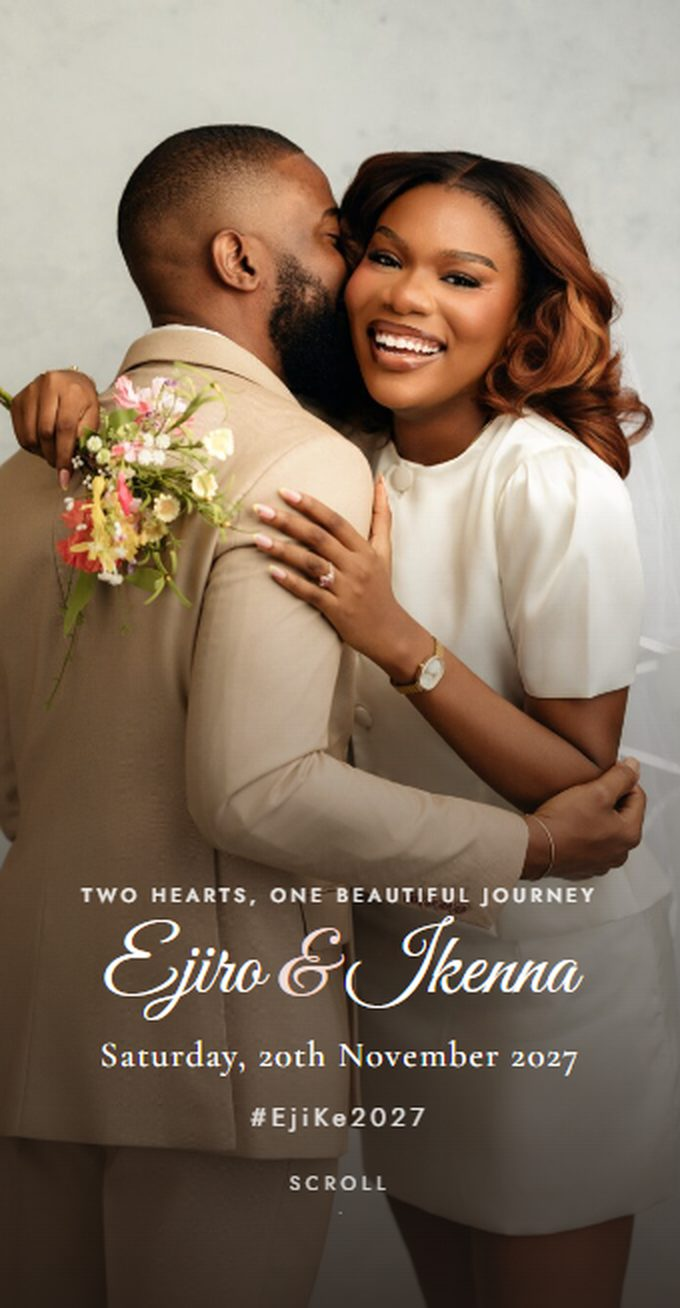
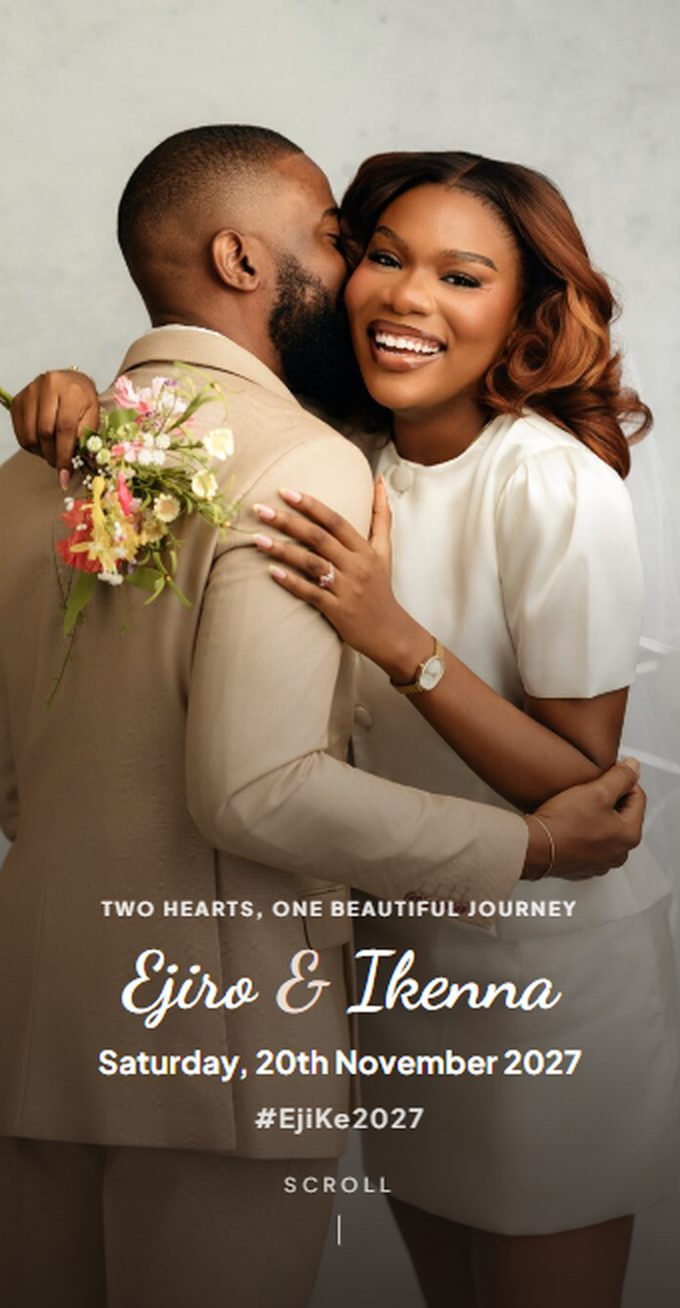
Stone & Blush: homepage fonts (Plus Jakarta Sans + Dancing Script), deeper oxblood palette

Changed region(s): [[0.1235, 0.6728, 0.8647, 0.948]]

diff --git a/samples/stone-blush/index.html b/samples/stone-blush/index.html
@@ -12,22 +12,22 @@
 <link rel="icon" type="image/png" href="assets/deeday-crest.png" />
 <link rel="preconnect" href="https://fonts.googleapis.com">
 <link rel="preconnect" href="https://fonts.gstatic.com" crossorigin>
-<link href="https://fonts.googleapis.com/css2?family=Great+Vibes&family=Jost:wght@300;400;500;600&family=Cormorant+Garamond:ital,wght@0,500;1,500&display=swap" rel="stylesheet">
+<link href="https://fonts.googleapis.com/css2?family=Dancing+Script:wght@600;700&family=Plus+Jakarta+Sans:wght@400;500;600;700;800&display=swap" rel="stylesheet">
 <style>
 :root{
-  --bg:#FFFFFF; --stone:#F3F0EB; --stone-2:#E7E2DA; --ink:#2A2421; --muted:#7A706A; --line:#E6DFD6;
-  --camel:#B8987A; --camel-2:#9E7F62; --blush:#F2DCD5; --rose:#A9564A; --rose-2:#8E4339;
+  --bg:#FFFFFF; --stone:#F3F0EB; --stone-2:#E7E2DA; --ink:#1F1A17; --muted:#6E655F; --line:#E6DFD6;
+  --camel:#B8987A; --camel-2:#8C6E54; --blush:#EBDCD2; --rose:#5E1A1F; --rose-2:#451216;
 }
 *{box-sizing:border-box;margin:0;padding:0}
 html{scroll-behavior:smooth;-webkit-text-size-adjust:100%}
-body{font-family:"Jost",system-ui,-apple-system,"Segoe UI",Roboto,sans-serif;background:var(--bg);color:var(--ink);line-height:1.6;-webkit-font-smoothing:antialiased;overflow-x:hidden}
+body{font-family:"Plus Jakarta Sans",system-ui,-apple-system,"Segoe UI",Roboto,sans-serif;background:var(--bg);color:var(--ink);line-height:1.6;-webkit-font-smoothing:antialiased;overflow-x:hidden}
 body.locked{overflow:hidden}
 img{display:block;max-width:100%}
 a{color:inherit}
 button{font-family:inherit}
-.script{font-family:"Great Vibes",cursive;font-weight:400}
-.serif{font-family:"Cormorant Garamond",Georgia,serif}
-.caps{text-transform:uppercase;letter-spacing:.32em;font-size:.72rem;font-weight:500}
+.script{font-family:"Dancing Script",cursive;font-weight:700}
+.serif{font-family:"Plus Jakarta Sans",sans-serif;font-weight:800}
+.caps{text-transform:uppercase;letter-spacing:.18em;font-size:.7rem;font-weight:700}
 .wrap{max-width:560px;margin:0 auto;padding:0 22px}
 
 .reveal{opacity:0;transform:translateY(24px);transition:opacity .8s cubic-bezier(.2,.7,.2,1),transform .8s cubic-bezier(.2,.7,.2,1)}
@@ -36,15 +36,15 @@ button{font-family:inherit}
 /* ---------- opening screen ---------- */
 .opener{position:fixed;inset:0;z-index:100;background:radial-gradient(60% 45% at 50% 42%,#F7F4EF 0%,#fff 70%);display:flex;flex-direction:column;align-items:center;justify-content:center;text-align:center;padding:24px;transition:opacity .9s ease,visibility .9s ease}
 .opener.gone{opacity:0;visibility:hidden}
-.opener .names{font-family:"Great Vibes",cursive;font-size:clamp(2.8rem,12vw,4.2rem);line-height:1.1;color:var(--ink);opacity:0;transform:translateY(12px);animation:rise 1.2s .3s forwards}
+.opener .names{font-family:"Dancing Script",cursive;font-weight:700;font-size:clamp(2.5rem,11vw,3.8rem);line-height:1.1;color:var(--ink);opacity:0;transform:translateY(12px);animation:rise 1.2s .3s forwards}
 .opener .names .amp{color:var(--rose)}
 .opener .caps{margin-top:34px;color:var(--muted);opacity:0;animation:rise 1s .9s forwards}
 .opener .btn{margin-top:34px;opacity:0;animation:rise 1s 1.3s forwards}
 @keyframes rise{to{opacity:1;transform:none}}
-.btn{display:inline-flex;align-items:center;justify-content:center;gap:8px;border:none;cursor:pointer;background:var(--rose);color:#fff;font-weight:600;font-size:.78rem;letter-spacing:.2em;text-transform:uppercase;padding:15px 38px;border-radius:40px;box-shadow:0 12px 26px -12px rgba(169,86,74,.7);text-decoration:none;transition:transform .2s,background .2s}
+.btn{display:inline-flex;align-items:center;justify-content:center;gap:8px;border:none;cursor:pointer;background:var(--rose);color:#fff;font-weight:700;font-size:.9rem;letter-spacing:0;padding:15px 34px;border-radius:40px;box-shadow:0 12px 26px -12px rgba(94,26,31,.6);text-decoration:none;transition:transform .2s,background .2s}
 .btn:hover{background:var(--rose-2);transform:translateY(-1px)}
 .btn.ghost{background:none;color:var(--rose);border:1px solid var(--rose);box-shadow:none}
-.btn.small{padding:11px 22px;font-size:.7rem}
+.btn.small{padding:11px 20px;font-size:.8rem}
 
 /* ---------- hero ---------- */
 .hero{position:relative;height:100svh;min-height:560px;overflow:hidden;color:#fff;display:flex;flex-direction:column;justify-content:flex-end;text-align:center}
@@ -52,19 +52,19 @@ button{font-family:inherit}
 body.opened .hero img{transform:scale(1)}
 .hero::after{content:"";position:absolute;inset:0;background:linear-gradient(to top,rgba(30,22,18,.82) 0%,rgba(30,22,18,.35) 38%,rgba(30,22,18,0) 62%)}
 .hero-in{position:relative;z-index:2;padding:0 20px 13vh}
-.hero .caps{font-size:.6rem;letter-spacing:.24em;opacity:.9}
-.hero-names{white-space:nowrap;font-family:"Great Vibes",cursive;font-size:clamp(2.6rem,13vw,5.4rem);line-height:1;margin:8px 0 6px;text-shadow:0 4px 24px rgba(0,0,0,.35)}
+.hero .caps{font-size:.6rem;letter-spacing:.16em;opacity:.9}
+.hero-names{white-space:nowrap;font-family:"Dancing Script",cursive;font-weight:700;font-size:clamp(2.3rem,11.5vw,4.8rem);line-height:1.05;margin:8px 0 6px;text-shadow:0 4px 24px rgba(0,0,0,.35)}
 .hero-names .amp{color:var(--blush)}
-.hero-date{white-space:nowrap;font-family:"Cormorant Garamond",serif;font-size:clamp(1rem,5.2vw,1.35rem);letter-spacing:.06em}
-.hero-tag{margin-top:6px;font-size:.8rem;letter-spacing:.2em;opacity:.85}
+.hero-date{white-space:nowrap;font-family:"Plus Jakarta Sans",sans-serif;font-weight:800;font-weight:700;font-size:clamp(.95rem,4.6vw,1.2rem);letter-spacing:.01em}
+.hero-tag{margin-top:6px;font-size:.8rem;font-weight:600;letter-spacing:.1em;opacity:.85}
 .scroll-cue{position:absolute;z-index:2;left:50%;bottom:22px;transform:translateX(-50%);font-size:.6rem;letter-spacing:.3em;opacity:.8;display:flex;flex-direction:column;align-items:center;gap:6px}
 .scroll-cue i{width:1px;height:26px;background:#fff;animation:cue 1.8s ease-in-out infinite;transform-origin:top}
 @keyframes cue{0%{transform:scaleY(0)}50%{transform:scaleY(1)}100%{transform:scaleY(0);transform-origin:bottom}}
 
 /* ---------- sections ---------- */
 section.sec{padding:70px 0 10px;text-align:center}
-.eyebrow{font-family:"Great Vibes",cursive;font-size:1.7rem;color:var(--camel-2);line-height:1}
-.title{font-family:"Cormorant Garamond",serif;font-weight:500;font-size:clamp(2rem,8vw,2.6rem);line-height:1.15;margin-top:4px}
+.eyebrow{font-family:"Dancing Script",cursive;font-weight:700;font-size:1.55rem;color:var(--camel-2);line-height:1}
+.title{font-family:"Plus Jakarta Sans",sans-serif;font-weight:800;letter-spacing:-.02em;font-size:clamp(1.7rem,7vw,2.2rem);line-height:1.15;margin-top:4px}
 .lead{color:var(--muted);max-width:420px;margin:12px auto 0;font-size:.95rem}
 .divider{width:46px;height:1px;background:var(--camel);margin:18px auto 0}
 
@@ -75,26 +75,26 @@ section.sec{padding:70px 0 10px;text-align:center}
 .timeline::before{content:"";position:absolute;left:11px;top:6px;bottom:6px;width:1px;background:var(--line)}
 .t-item{position:relative;padding:0 0 30px 40px}
 .t-item::before{content:"";position:absolute;left:5px;top:6px;width:13px;height:13px;border-radius:50%;background:#fff;border:2px solid var(--rose)}
-.t-item .when{font-size:.66rem;letter-spacing:.26em;text-transform:uppercase;color:var(--rose);font-weight:600}
-.t-item h4{font-family:"Cormorant Garamond",serif;font-weight:500;font-size:1.45rem;line-height:1.2;margin-top:2px}
+.t-item .when{font-size:.66rem;letter-spacing:.16em;text-transform:uppercase;color:var(--rose);font-weight:600}
+.t-item h4{font-family:"Plus Jakarta Sans",sans-serif;font-weight:800;letter-spacing:-.01em;font-size:1.08rem;font-weight:700;line-height:1.3;margin-top:2px}
 .t-item p{color:var(--muted);font-size:.92rem;margin-top:4px}
 
 /* countdown */
 .count-card{margin:30px auto 0;max-width:440px;background:var(--stone);border-radius:22px;padding:26px 14px;display:grid;grid-template-columns:repeat(4,1fr);gap:6px}
-.count-card b{display:block;font-family:"Cormorant Garamond",serif;font-weight:500;font-size:clamp(2rem,9vw,2.6rem);line-height:1}
-.count-card span{font-size:.6rem;letter-spacing:.22em;text-transform:uppercase;color:var(--muted)}
-.count-done{display:none;margin-top:24px;font-family:"Great Vibes",cursive;font-size:2rem;color:var(--rose)}
+.count-card b{display:block;font-family:"Plus Jakarta Sans",sans-serif;font-weight:800;letter-spacing:-.03em;font-size:clamp(1.8rem,8vw,2.3rem);line-height:1}
+.count-card span{font-size:.6rem;letter-spacing:.14em;font-weight:600;text-transform:uppercase;color:var(--muted)}
+.count-done{display:none;margin-top:24px;font-family:"Dancing Script",cursive;font-weight:700;font-size:2rem;color:var(--rose)}
 
 /* events */
 .events{display:flex;flex-direction:column;gap:16px;margin-top:30px;text-align:left}
 .ev{background:#fff;border:1px solid var(--line);border-radius:20px;padding:22px;box-shadow:0 16px 36px -28px rgba(42,36,33,.5)}
-.ev .tag{font-size:.64rem;letter-spacing:.26em;text-transform:uppercase;color:var(--rose);font-weight:600}
-.ev h4{font-family:"Cormorant Garamond",serif;font-weight:500;font-size:1.6rem;line-height:1.2;margin-top:4px}
+.ev .tag{font-size:.64rem;letter-spacing:.16em;text-transform:uppercase;color:var(--rose);font-weight:600}
+.ev h4{font-family:"Plus Jakarta Sans",sans-serif;font-weight:800;letter-spacing:-.02em;font-size:1.25rem;line-height:1.25;margin-top:4px}
 .ev .meta{margin-top:10px;display:flex;flex-direction:column;gap:4px;color:var(--muted);font-size:.9rem}
 .ev .meta div{display:flex;gap:10px;align-items:flex-start}
 .ev .meta svg{flex:none;width:16px;height:16px;margin-top:3px;stroke:var(--camel-2);fill:none;stroke-width:1.8;stroke-linecap:round;stroke-linejoin:round}
 .ev .acts{display:flex;gap:8px;flex-wrap:wrap;margin-top:16px}
-.ev.private{background:var(--ink);color:#F3EDE6;border-color:var(--ink)}
+.ev.private{background:#2A1416;color:#F3EDE6;border-color:#2A1416}
 .ev.private .tag{color:var(--blush)} .ev.private .meta{color:#C9BEB6} .ev.private .meta svg{stroke:var(--blush)}
 .pin-row{display:flex;gap:8px;margin-top:16px}
 .pin-row input{flex:1;min-width:0;padding:12px 14px;border-radius:30px;border:1px solid rgba(255,255,255,.25);background:rgba(255,255,255,.06);color:#fff;font-family:inherit;font-size:16px;letter-spacing:.3em;text-align:center}
@@ -106,15 +106,15 @@ section.sec{padding:70px 0 10px;text-align:center}
 
 /* schedule */
 .sched{margin:30px auto 0;max-width:440px;text-align:left}
-.sch{display:grid;grid-template-columns:86px 1fr;gap:14px;padding:16px 0;border-bottom:1px solid var(--line)}
+.sch{display:grid;grid-template-columns:78px 1fr;gap:14px;padding:16px 0;border-bottom:1px solid var(--line)}
 .sch:last-child{border-bottom:none}
-.sch .tm{font-family:"Cormorant Garamond",serif;font-size:1.25rem;color:var(--rose)}
-.sch h5{font-size:1rem;font-weight:500}
+.sch .tm{font-family:"Plus Jakarta Sans",sans-serif;font-weight:800;letter-spacing:-.01em;font-size:.95rem;color:var(--rose)}
+.sch h5{font-size:.98rem;font-weight:700}
 .sch p{color:var(--muted);font-size:.86rem}
 
 /* dress code */
 .dress{margin-top:26px;background:var(--stone);border-radius:22px;padding:24px 18px}
-.dress h4{font-family:"Cormorant Garamond",serif;font-weight:500;font-size:1.5rem}
+.dress h4{font-family:"Plus Jakarta Sans",sans-serif;font-weight:800;letter-spacing:-.02em;font-size:1.2rem;margin-top:2px}
 .swatches{display:flex;justify-content:center;gap:16px;margin-top:16px}
 .sw{display:flex;flex-direction:column;align-items:center;gap:8px;font-size:.72rem;color:var(--muted)}
 .sw i{width:52px;height:52px;border-radius:50%;box-shadow:inset 0 0 0 1px rgba(0,0,0,.06),0 8px 18px -10px rgba(0,0,0,.4)}
@@ -127,7 +127,7 @@ section.sec{padding:70px 0 10px;text-align:center}
 .gallery button:hover img{transform:scale(1.04)}
 .gallery button.tall{grid-row:span 2}
 .gallery button.tall img{aspect-ratio:auto;height:100%}
-.gallery .more{position:absolute;inset:0;background:rgba(30,22,18,.48);color:#fff;display:flex;align-items:center;justify-content:center;font-family:"Cormorant Garamond",serif;font-size:2rem}
+.gallery .more{position:absolute;inset:0;background:rgba(30,22,18,.48);color:#fff;display:flex;align-items:center;justify-content:center;font-family:"Plus Jakarta Sans",sans-serif;font-weight:800;letter-spacing:-.02em;font-size:2rem}
 .lightbox{position:fixed;inset:0;z-index:95;background:rgba(18,14,12,.94);display:none;align-items:center;justify-content:center}
 .lightbox.show{display:flex}
 .lightbox img{max-width:92vw;max-height:80vh;border-radius:10px;box-shadow:0 30px 60px -20px rgba(0,0,0,.7)}
@@ -138,11 +138,11 @@ section.sec{padding:70px 0 10px;text-align:center}
 /* rsvp */
 .contacts{display:flex;justify-content:center;gap:12px;margin-top:22px;flex-wrap:wrap}
 .contact{background:var(--stone);border-radius:16px;padding:14px 18px;min-width:140px;text-decoration:none}
-.contact b{display:block;font-size:.7rem;letter-spacing:.24em;color:var(--rose)}
+.contact b{display:block;font-size:.7rem;letter-spacing:.16em;color:var(--rose)}
 .contact span{font-size:.92rem}
 .rsvp-form{margin:24px auto 0;max-width:440px;text-align:left;background:#fff;border:1px solid var(--line);border-radius:22px;padding:24px 20px;box-shadow:0 16px 36px -28px rgba(42,36,33,.5)}
 .fg{margin-bottom:16px}
-.fg label{display:block;font-size:.66rem;letter-spacing:.24em;text-transform:uppercase;font-weight:600;color:var(--muted);margin-bottom:8px}
+.fg label{display:block;font-size:.66rem;letter-spacing:.14em;text-transform:uppercase;font-weight:600;color:var(--muted);margin-bottom:8px}
 .fg input,.fg select,.fg textarea{width:100%;padding:13px 14px;border:1px solid var(--line);border-radius:12px;background:#fff;font-family:inherit;font-size:16px;color:var(--ink)}
 .fg input:focus,.fg select:focus,.fg textarea:focus{outline:none;border-color:var(--camel);box-shadow:0 0 0 3px rgba(184,152,122,.2)}
 .choice{display:grid;grid-template-columns:1fr 1fr;gap:8px}
@@ -153,18 +153,18 @@ section.sec{padding:70px 0 10px;text-align:center}
 .rsvp-form .btn{width:100%;margin-top:6px}
 .rsvp-note{font-size:.8rem;color:var(--muted);text-align:center;margin-top:12px}
 .thanks{display:none;margin:24px auto 0;max-width:440px;background:var(--stone);border-radius:22px;padding:28px 22px}
-.thanks h4{font-family:"Great Vibes",cursive;font-weight:400;font-size:2.2rem;color:var(--rose);line-height:1.1}
+.thanks h4{font-family:"Dancing Script",cursive;font-weight:700;font-size:2.2rem;color:var(--rose);line-height:1.1}
 .thanks p{color:var(--muted);margin-top:8px;font-size:.92rem}
 .thanks .ref{display:inline-block;margin-top:12px;font-size:.72rem;letter-spacing:.24em;background:#fff;padding:6px 14px;border-radius:20px}
 
 /* photo wall */
 .wall{margin-top:24px;background:var(--stone);border-radius:22px;padding:26px 20px}
-.wall .hash{font-family:"Cormorant Garamond",serif;font-size:1.9rem;color:var(--rose)}
+.wall .hash{font-family:"Plus Jakarta Sans",sans-serif;font-weight:800;letter-spacing:-.02em;font-size:1.45rem;color:var(--rose)}
 .wall p{color:var(--muted);font-size:.9rem;margin-top:6px}
 .wall .acts{display:flex;gap:8px;justify-content:center;flex-wrap:wrap;margin-top:16px}
 
 /* gift box */
-.gift{margin:26px auto 0;max-width:400px;position:relative;border-radius:22px;padding:26px 22px;text-align:left;color:#fff;background:linear-gradient(135deg,#B8987A,#8C6E54);box-shadow:0 26px 50px -26px rgba(140,110,84,.8);overflow:hidden}
+.gift{margin:26px auto 0;max-width:400px;position:relative;border-radius:22px;padding:26px 22px;text-align:left;color:#fff;background:linear-gradient(135deg,#6B2127,#3A0F12);box-shadow:0 26px 50px -26px rgba(58,15,18,.8);overflow:hidden}
 .gift::after{content:"";position:absolute;right:-40px;top:-40px;width:160px;height:160px;border-radius:50%;background:rgba(255,255,255,.12)}
 .gift .row{display:flex;justify-content:space-between;align-items:center}
 .gift .bank{font-weight:600;letter-spacing:.06em}
@@ -174,10 +174,10 @@ section.sec{padding:70px 0 10px;text-align:center}
 .copy{position:relative;z-index:2;border:none;cursor:pointer;background:rgba(255,255,255,.2);color:#fff;padding:9px 16px;border-radius:20px;font-size:.72rem;letter-spacing:.14em;font-weight:600;margin-top:16px}
 
 footer{padding:70px 22px 120px;text-align:center}
-footer .names{font-family:"Great Vibes",cursive;font-size:2.8rem;line-height:1.1}
+footer .names{font-family:"Dancing Script",cursive;font-weight:700;font-size:2.8rem;line-height:1.1}
 footer .names .amp{color:var(--rose)}
 footer p{color:var(--muted);font-size:.92rem;margin-top:8px}
-footer .hash{margin-top:10px;color:var(--rose);letter-spacing:.2em;font-size:.8rem}
+footer .hash{margin-top:10px;color:var(--rose);font-weight:700;letter-spacing:.1em;font-size:.8rem}
 footer .made{margin-top:28px;font-size:.78rem;color:var(--muted)}
 footer .made a{color:var(--ink);font-weight:600;text-decoration:none}
 footer .credit{font-size:.7rem;color:#A39890;margin-top:6px}
